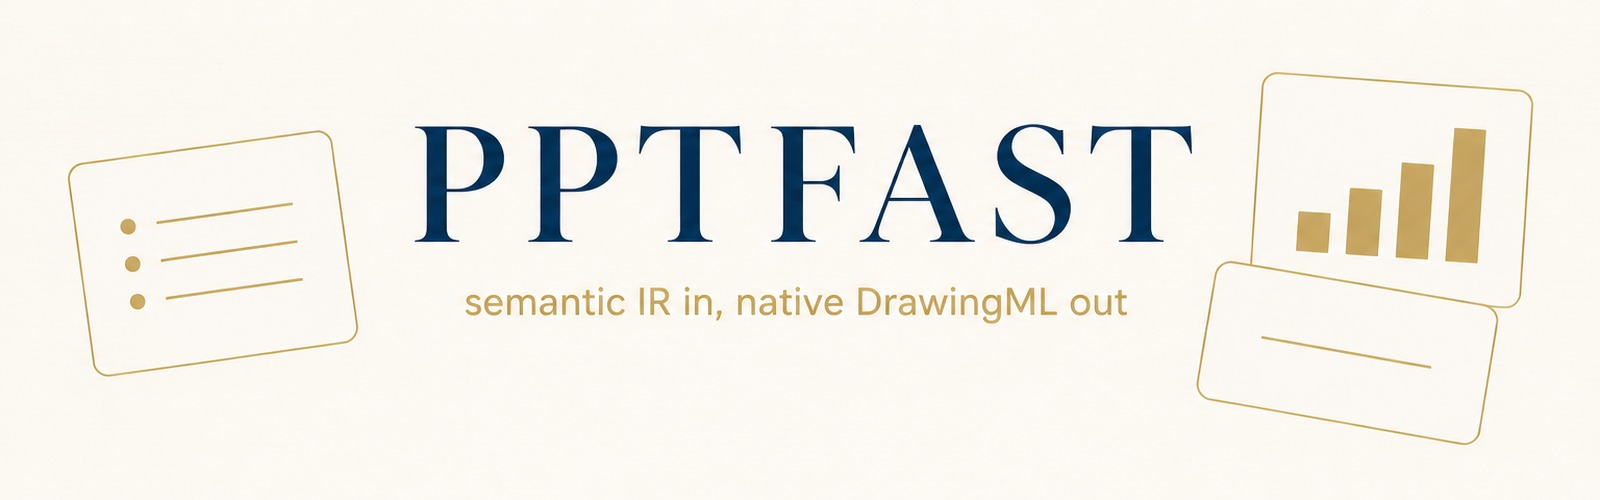
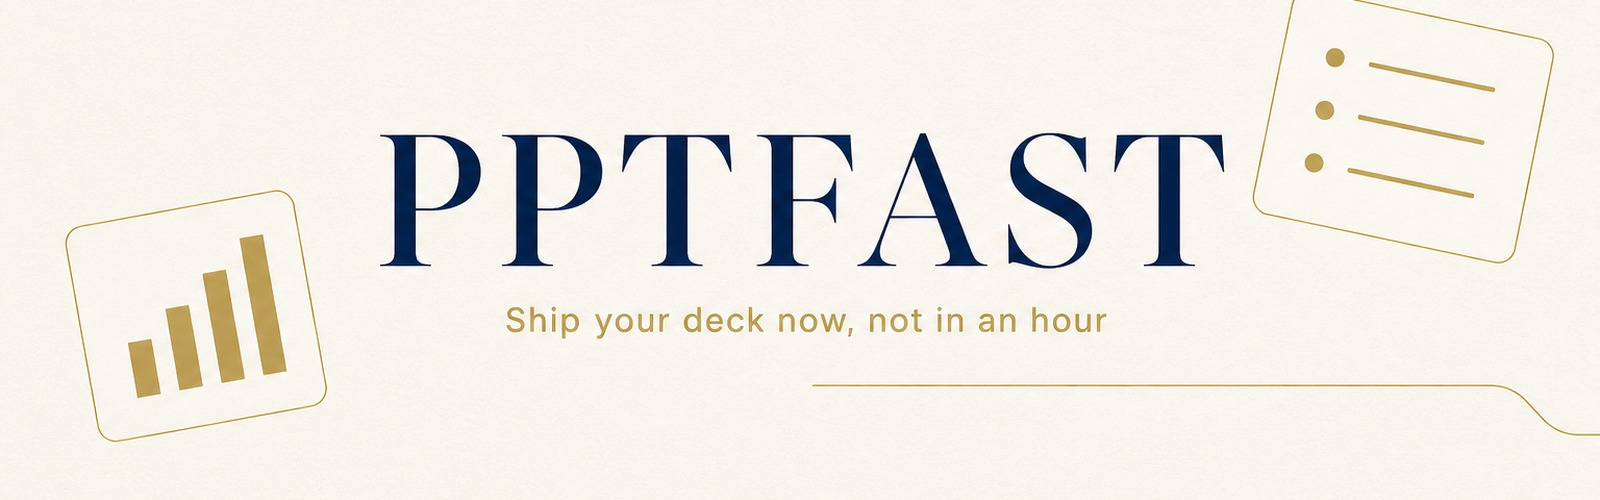
docs: lead with the promise, not the mechanism

diff --git a/README.md b/README.md
@@ -1,10 +1,8 @@
-<p align="center"><img src="assets/banner.jpg" alt="pptfast — semantic IR in, native DrawingML out" width="100%"></p>
+<p align="center"><img src="assets/banner.jpg" alt="pptfast — ship your deck now, not in an hour" width="100%"></p>
 
 <h1 align="center">pptfast</h1>
 
-<p align="center"><b>Stable, editable PPTX generation for AI agents: semantic IR in, native DrawingML out.</b></p>
-
-<p align="center">🎯 <b>Deterministic to the byte: same IR, same seed, same PPTX</b> 🎯</p>
+<p align="center"><b>Ship your deck now, not in an hour.</b></p>
 
 <p align="center">
   <a href="./README.zh-CN.md">简体中文</a> ·
@@ -22,20 +20,20 @@
   <a href="https://nodejs.org"><img src="https://img.shields.io/node/v/@liustack/pptfast?style=flat-square" alt="Node.js"></a>
   <a href="LICENSE"><img src="https://img.shields.io/badge/license-MIT-blue?style=flat-square" alt="License"></a>
   <img src="https://img.shields.io/badge/Not%20backed%20by-Y%20Combinator-FF6600?style=flat-square&logo=ycombinator&logoColor=white" alt="Not backed by Y Combinator">
-  <img src="https://img.shields.io/badge/same%20seed-same%20bytes-4c1?style=flat-square" alt="Same seed, same bytes">
+  <img src="https://img.shields.io/badge/no%20API%20key-needed-4c1?style=flat-square" alt="No API key needed">
 </p>
 
 ## Highlights
 
-**🎯 Deterministic to the byte.** Rendering is a pure function: the same IR and seed pick the same layouts, draw the same geometry, and write the same bytes to disk. Preview never disagrees with the final render, and editing one page cannot reshuffle the rest of the deck.
+**⚡ Tell your AI what to cover, get the deck.** You bring the content, the engine handles layout, color, type size, and spacing. The same content renders the same deck every time, so there is nothing to redo and no luck involved.
 
-**✏ Every shape stays editable.** Native DrawingML out, not a picture pasted onto a slide: headings, bullets, chart bars, and table cells are real PowerPoint objects you can select, restyle, and retype. Chart and table figures are the one exception, drawn as shapes rather than live data, so new numbers mean editing the IR and rendering again. 17 built-in themes, and `pptfast brand extract` pulls your company's colors and fonts out of a `.pptx`/`.potx`/`.thmx` entirely locally.
+**✏ A real deck, not a picture of one.** Every heading, bullet, and chart bar opens in PowerPoint for you to retype and restyle. Chart and table figures are the exception: to change the numbers, have your AI rebuild that page. 17 ready-made styles, and you can pull the colors and fonts out of a deck your company already uses.
 
 **🔌 Installs into the agent you already use.** One command puts pptfast into DeepSeek Harness, Claude Code, or any agent that reads a skill folder (Codex and friends), and it knows how to build a deck the moment it lands.
 
-**🔁 A review loop built for agents.** schema → validate → audit → render, with errors that carry page numbers and copy-paste fixes. `pptfast serve` opens a live preview that reloads on every change, and reviewer annotations land back on disk as `revision-request.json` for the agent to act on.
+**🔁 Revisions without describing everything again.** One command opens a preview page in your browser: page through it, write your notes right on the slides, and your AI picks them up and fixes them. The page refreshes itself as each revision lands.
 
-**🔒 Zero config, fully local.** No API key, no account, no network at render time. Node 22.19+ (or Bun) is the whole prerequisite.
+**🔒 No account, no API key, no network.** Install it and it works. Node 22.19+ or Bun is all you need on the machine.
 
 ## Install
 

diff --git a/README.zh-CN.md b/README.zh-CN.md
@@ -1,10 +1,8 @@
-<p align="center"><img src="assets/banner.jpg" alt="pptfast：输入语义化 IR，输出原生 DrawingML" width="100%"></p>
+<p align="center"><img src="assets/banner.jpg" alt="pptfast：PPT 现在就要，不是一小时后" width="100%"></p>
 
 <h1 align="center">pptfast</h1>
 
-<p align="center"><b>面向 AI agent 的稳定、可编辑 PPTX 生成工具：输入语义化 IR，输出原生 DrawingML。</b></p>
-
-<p align="center">🎯 <b>字节级确定性：同一份 IR、同一个 seed，渲染出同一份 PPTX</b> 🎯</p>
+<p align="center"><b>PPT 现在就要，不是一小时后。</b></p>
 
 <p align="center">
   <a href="./README.md">English</a> ·
@@ -22,20 +20,20 @@
   <a href="https://nodejs.org"><img src="https://img.shields.io/node/v/@liustack/pptfast?style=flat-square" alt="Node.js"></a>
   <a href="LICENSE"><img src="https://img.shields.io/badge/license-MIT-blue?style=flat-square" alt="License"></a>
   <img src="https://img.shields.io/badge/Not%20backed%20by-Y%20Combinator-FF6600?style=flat-square&logo=ycombinator&logoColor=white" alt="Not backed by Y Combinator">
-  <img src="https://img.shields.io/badge/same%20seed-same%20bytes-4c1?style=flat-square" alt="Same seed, same bytes">
+  <img src="https://img.shields.io/badge/no%20API%20key-needed-4c1?style=flat-square" alt="No API key needed">
 </p>
 
 ## 亮点
 
-**🎯 字节级确定性。** 渲染是纯函数：同一份 IR、同一个 seed，选出同样的版式、画出同样的几何、落盘同样的字节。预览与最终渲染永不打架，改一页也不会搅动其余页面。
+**⚡ 跟 AI 说一句，PPT 就好了。** 你只管说要讲什么，版面、配色、字号、间距全由引擎排好。同一份内容做十遍是同一份，不用一遍遍重来碰运气。
 
-**✏ 每个图形都保持可编辑。** 输出原生 DrawingML，不是贴上去的一张图：标题、要点、图表柱子、表格单元格都是 PowerPoint 里可选中、可改样式、可改文字的真实对象。只有图表和表格里的数字是例外，它们是画出来的图形而不是活数据，换数字要改 IR 重新渲染。17 个内置主题，`pptfast brand extract` 还能完全在本地从 `.pptx`/`.potx`/`.thmx` 里抽出你公司的配色与字体。
+**✏ 交出来的是真 PPT，不是一张图。** 每个标题、每条要点、每根柱子都能在 PowerPoint 里点开改字改色。图表和表格里的数字是例外，换数字让 AI 重做一版。17 套现成风格，也能把你公司现有 PPT 里的配色和字体抽出来直接用。
 
 **🔌 装进你正在用的 agent。** 一条命令装进 DeepSeek Harness、Claude Code，或任何读 skill 文件夹的 agent（Codex 等），装完就会用。
 
-**🔁 为 agent 而生的审阅回路。** schema → validate → audit → render，报错带页码和可直接照抄的修法。`pptfast serve` 打开随改动自动刷新的实时预览，审阅者的批注直接落盘为 `revision-request.json`，交回 agent 处理。
+**🔁 改稿不用重新描述一遍。** 一条命令打开预览网页，翻页看效果，直接在页面上写批注，AI 读了就改，改完网页自动刷新。
 
-**🔒 零配置、全本地。** 不要 API key、不用注册、渲染时不联网。唯一前置是 Node 22.19+（或 Bun）。
+**🔒 不用注册、不用配 key、不联网。** 装好就能用，电脑上有 Node 22.19+ 或 Bun 就行。
 
 ## 安装
 
